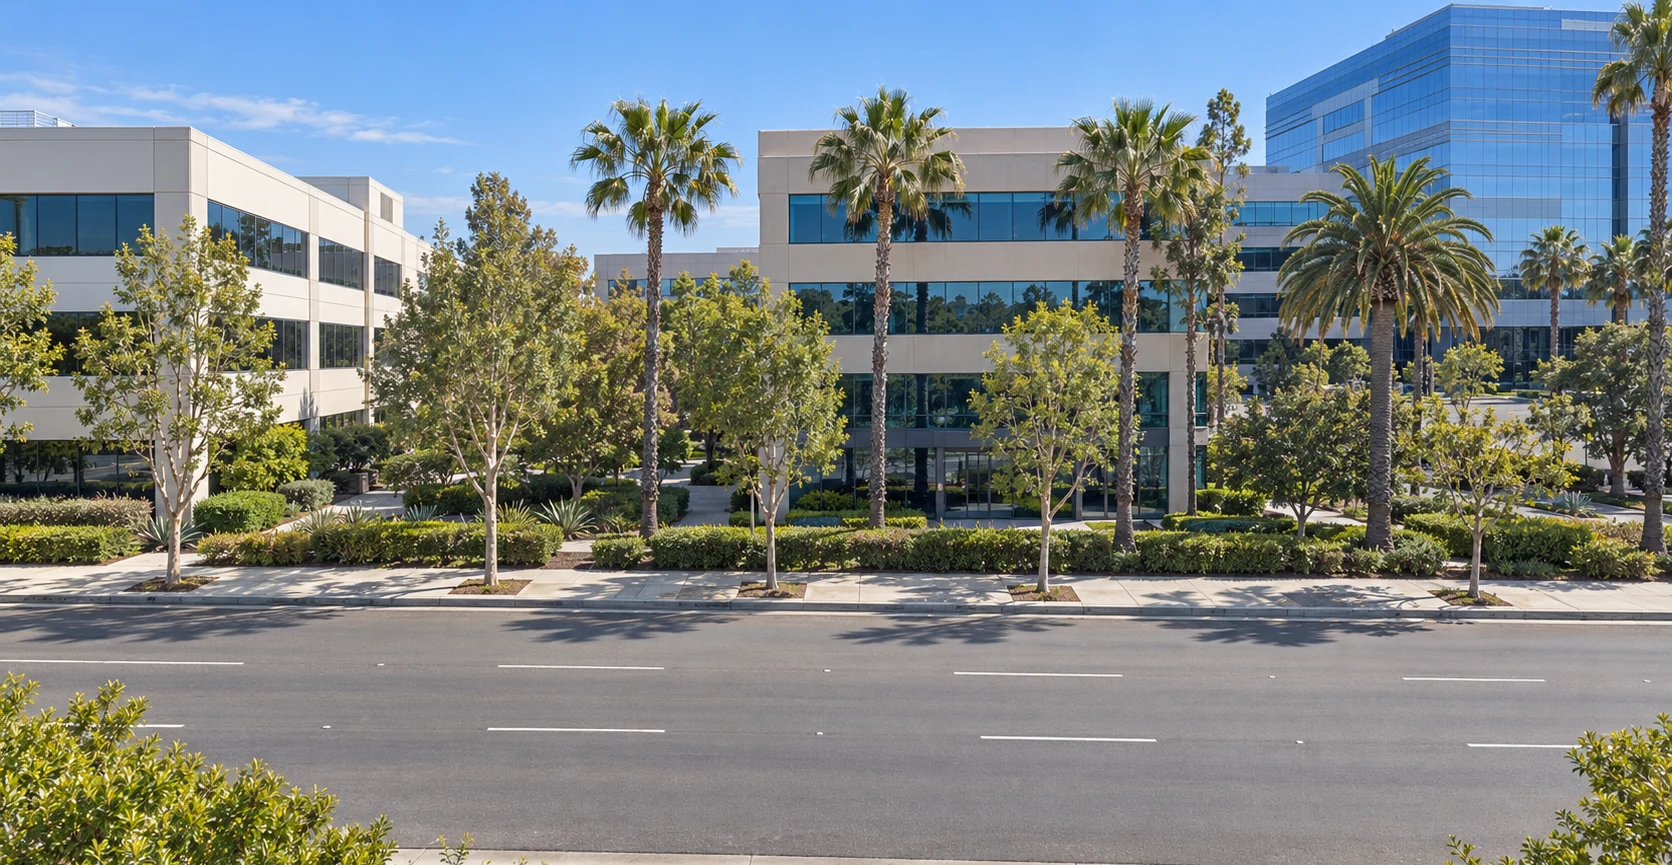
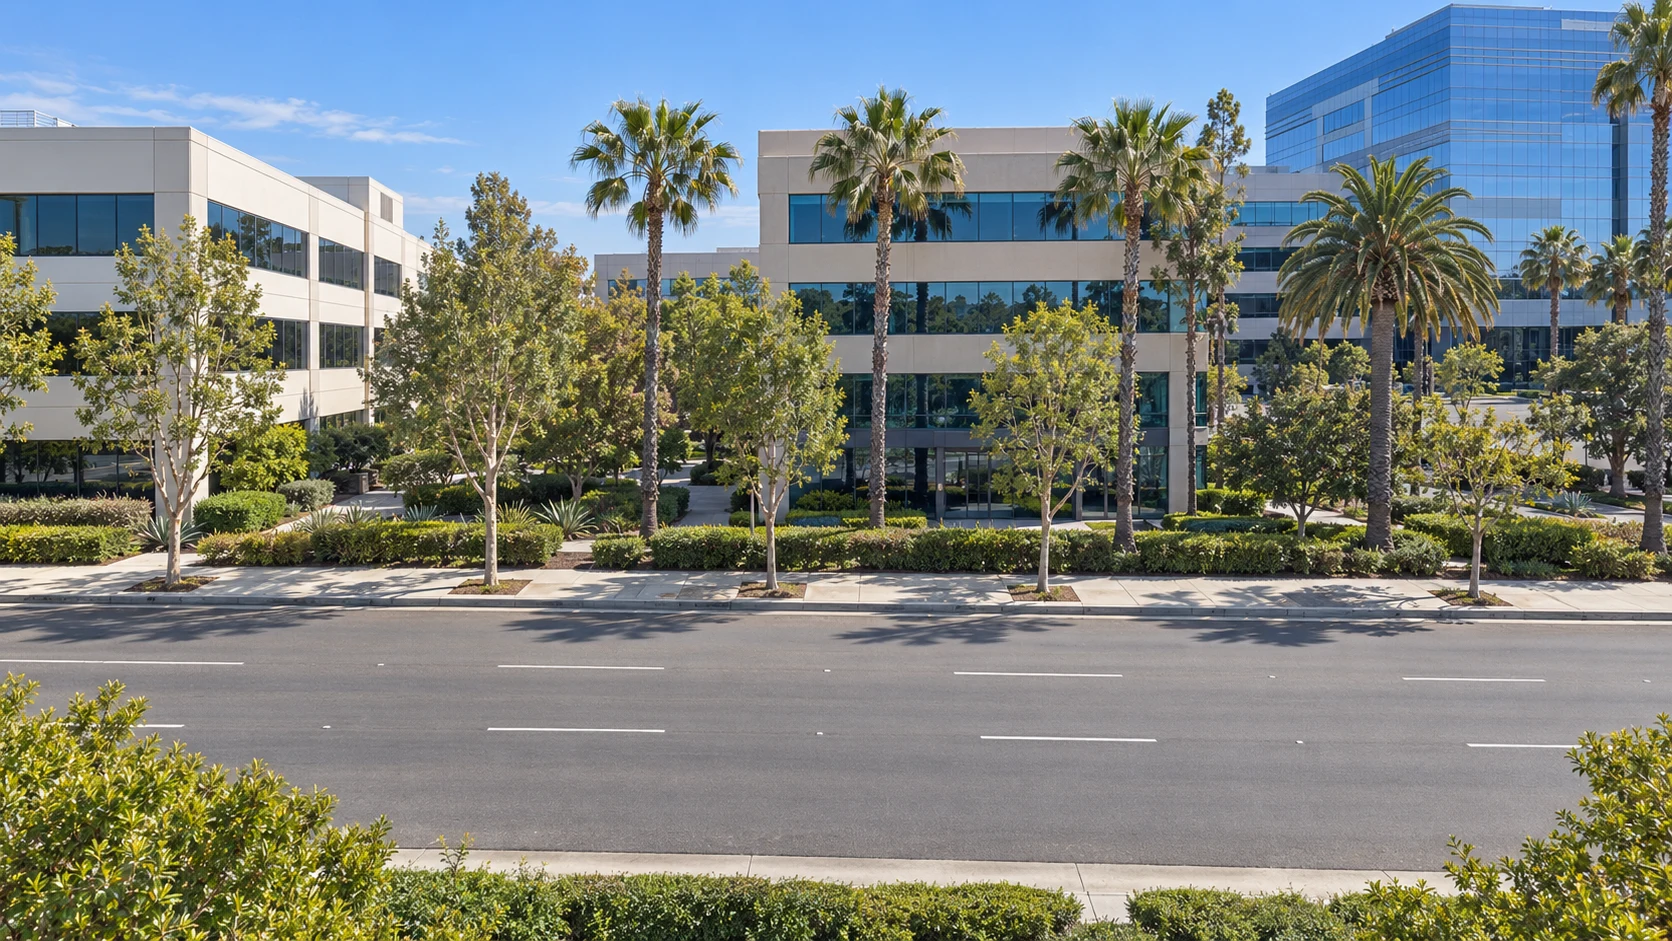
Expo: снимок улицы растянут во всю высоту кадра — ничего не режем и не дорисовываем.
Эльдар: «верхний край ровно по верхнему краю страницы, нижний ровно по нижнему;
ничего не резать, ничего не дорисовывать». Убран cover-fit с обрезкой и полоса
усреднённого тона снизу (ST_FOOT); снимок теперь кладётся от y=0 до y=H, по
ширине — по проёму. Пропорции намеренно не сохраняются: это фон за проёмом, а
требование — касание обоих краёв. Сам файл восстановлен из необрезанного
street2.png (1672×941). ASSET_V → 20260925-street-v3.

diff --git a/expo/expo.html b/expo/expo.html
@@ -9140,7 +9140,7 @@ function stCutHall(kind){
    линию горизонта при любом kk, поэтому совместить их — значит совместить
    кадр с 430. hz — доля высоты, на которой горизонт лежит в самом снимке. */
 const ST_BACK = {dz: 5200, hz: 0.55, wide: 1.0};   // hz — доля высоты, на которой в снимке лежит горизонт
-let ST_IMG = null, ST_TRIED = false, ST_FOOT = null;
+let ST_IMG = null, ST_TRIED = false;
 function streetImg(){
   if (!ST_TRIED){
     ST_TRIED = true;
@@ -9159,47 +9159,15 @@ function drawStreetBack(){
   const kw = k(wallZAt((x0 + x1) / 2));
   const a = px(x0, kw), b = px(x1, kw);
   if (b < -40 || a > W + 40) return;
-  /* СНИМОК ВИДЕН ЦЕЛИКОМ, А НЕ ОБРЕЗАН СВЕРХУ. Раньше он масштабировался
-     так, чтобы ЗАКРЫТЬ просвет и сверху, и снизу. Просвет у нас куда выше
-     своей ширины (около 1.16 против 1.78 у снимка), и «закрыть» означало
-     раздуть кадр и срезать ему небо — Эльдар это и увидел.
-     Теперь наоборот: снимок ставится во всю ширину просвета и показывается
-     ЦЕЛИКОМ, а то, чего ему не хватает сверху и снизу, дотягивается его же
-     крайними рядами — небо тянется вверх, полотно дороги вниз. Шва не видно,
-     потому что и там и там ряд почти однороден. */
-  const ar = im.naturalHeight / im.naturalWidth;
-  const wS = (b - a) * ST_BACK.wide, hS = wS * ar;
+  /* СНИМОК РАСТЯНУТ НА ВСЮ ВЫСОТУ КАДРА. Эльдар (2026-09-25): «верхний край
+     ровно по верхнему краю страницы, нижний ровно по нижнему; ничего не резать
+     и ничего не дорисовывать». Поэтому ни обрезки, ни доводки крайними рядами:
+     по ширине снимок занимает просвет, по высоте — от 0 до H. Пропорция при
+     этом не сохраняется, и это сознательно: важнее, чтобы улица стояла в
+     проёме без полей и без швов. */
+  const wS = (b - a) * ST_BACK.wide;
   const cx = px((x0 + x1) / 2, kz);
-  const xS = cx - wS / 2, yS = CFG.horizon * SS - ST_BACK.hz * hS;
-  const IW = im.naturalWidth, IH = im.naturalHeight;
-  const edge = Math.max(2, Math.round(IH * 0.03));
-  if (yS > 0) ctx.drawImage(im, 0, 0, IW, edge, xS, 0, wS, yS + 1);
-  /* ВНИЗ — РОВНЫЙ ТОН, А НЕ РАСТЯНУТЫЙ РЯД. Небо сверху однородно, и растянуть
-     его верхний ряд можно. Снизу у снимка живая изгородь: растянутый ряд дал
-     вертикальные полосы, как расчёска. Поэтому низ дотягивается СРЕДНИМ цветом
-     нижней полосы — он считается один раз через холст 1x1, — и стыкуется с
-     кадром короткой растяжкой, чтобы шва не было. */
-  const yBot = yS + hS;
-  if (yBot < H){
-    if (!ST_FOOT){
-      const c1 = document.createElement('canvas'); c1.width = c1.height = 1;
-      const g1 = c1.getContext('2d', {willReadFrequently: true});
-      g1.drawImage(im, 0, IH - edge, IW, edge, 0, 0, 1, 1);
-      const d = g1.getImageData(0, 0, 1, 1).data;
-      ST_FOOT = `rgb(${d[0]},${d[1]},${d[2]})`;
-    }
-    const blend = Math.min(H - yBot, hS * 0.06);
-    ctx.fillStyle = ST_FOOT;
-    ctx.fillRect(xS, yBot + blend - 1, wS, H - yBot - blend + 1);
-    if (blend > 1){
-      const gg = ctx.createLinearGradient(0, yBot - 1, 0, yBot + blend);
-      gg.addColorStop(0, ST_FOOT.replace('rgb', 'rgba').replace(')', ',0)'));
-      gg.addColorStop(1, ST_FOOT);
-      ctx.fillStyle = gg;
-      ctx.fillRect(xS, yBot - 1, wS, blend + 1);
-    }
-  }
-  ctx.drawImage(im, xS, yS, wS, hS);
+  ctx.drawImage(im, cx - wS / 2, 0, wS, H);
 }
 function drawStreet(){
   const pairs = stPairs();
@@ -10403,7 +10371,7 @@ const PHOTO_TEX = {};
 /* the skin's files are re-cut under the same names as the room is tuned, so a
    browser that has already seen one keeps serving it back; every photo asset
    carries the build stamp and a new cut is fetched the moment it exists */
-const ASSET_V = '20260925-street-v2';
+const ASSET_V = '20260925-street-v3';
 const vurl = p => p + (p.includes('?') ? '&' : '?') + 'v=' + ASSET_V;
 /* EVERY PHOTOGRAPH IS SERVED AS WEBP. The names below still say .png and .jpg
    because that is what the file in the studio is; on the wire it is the webp
